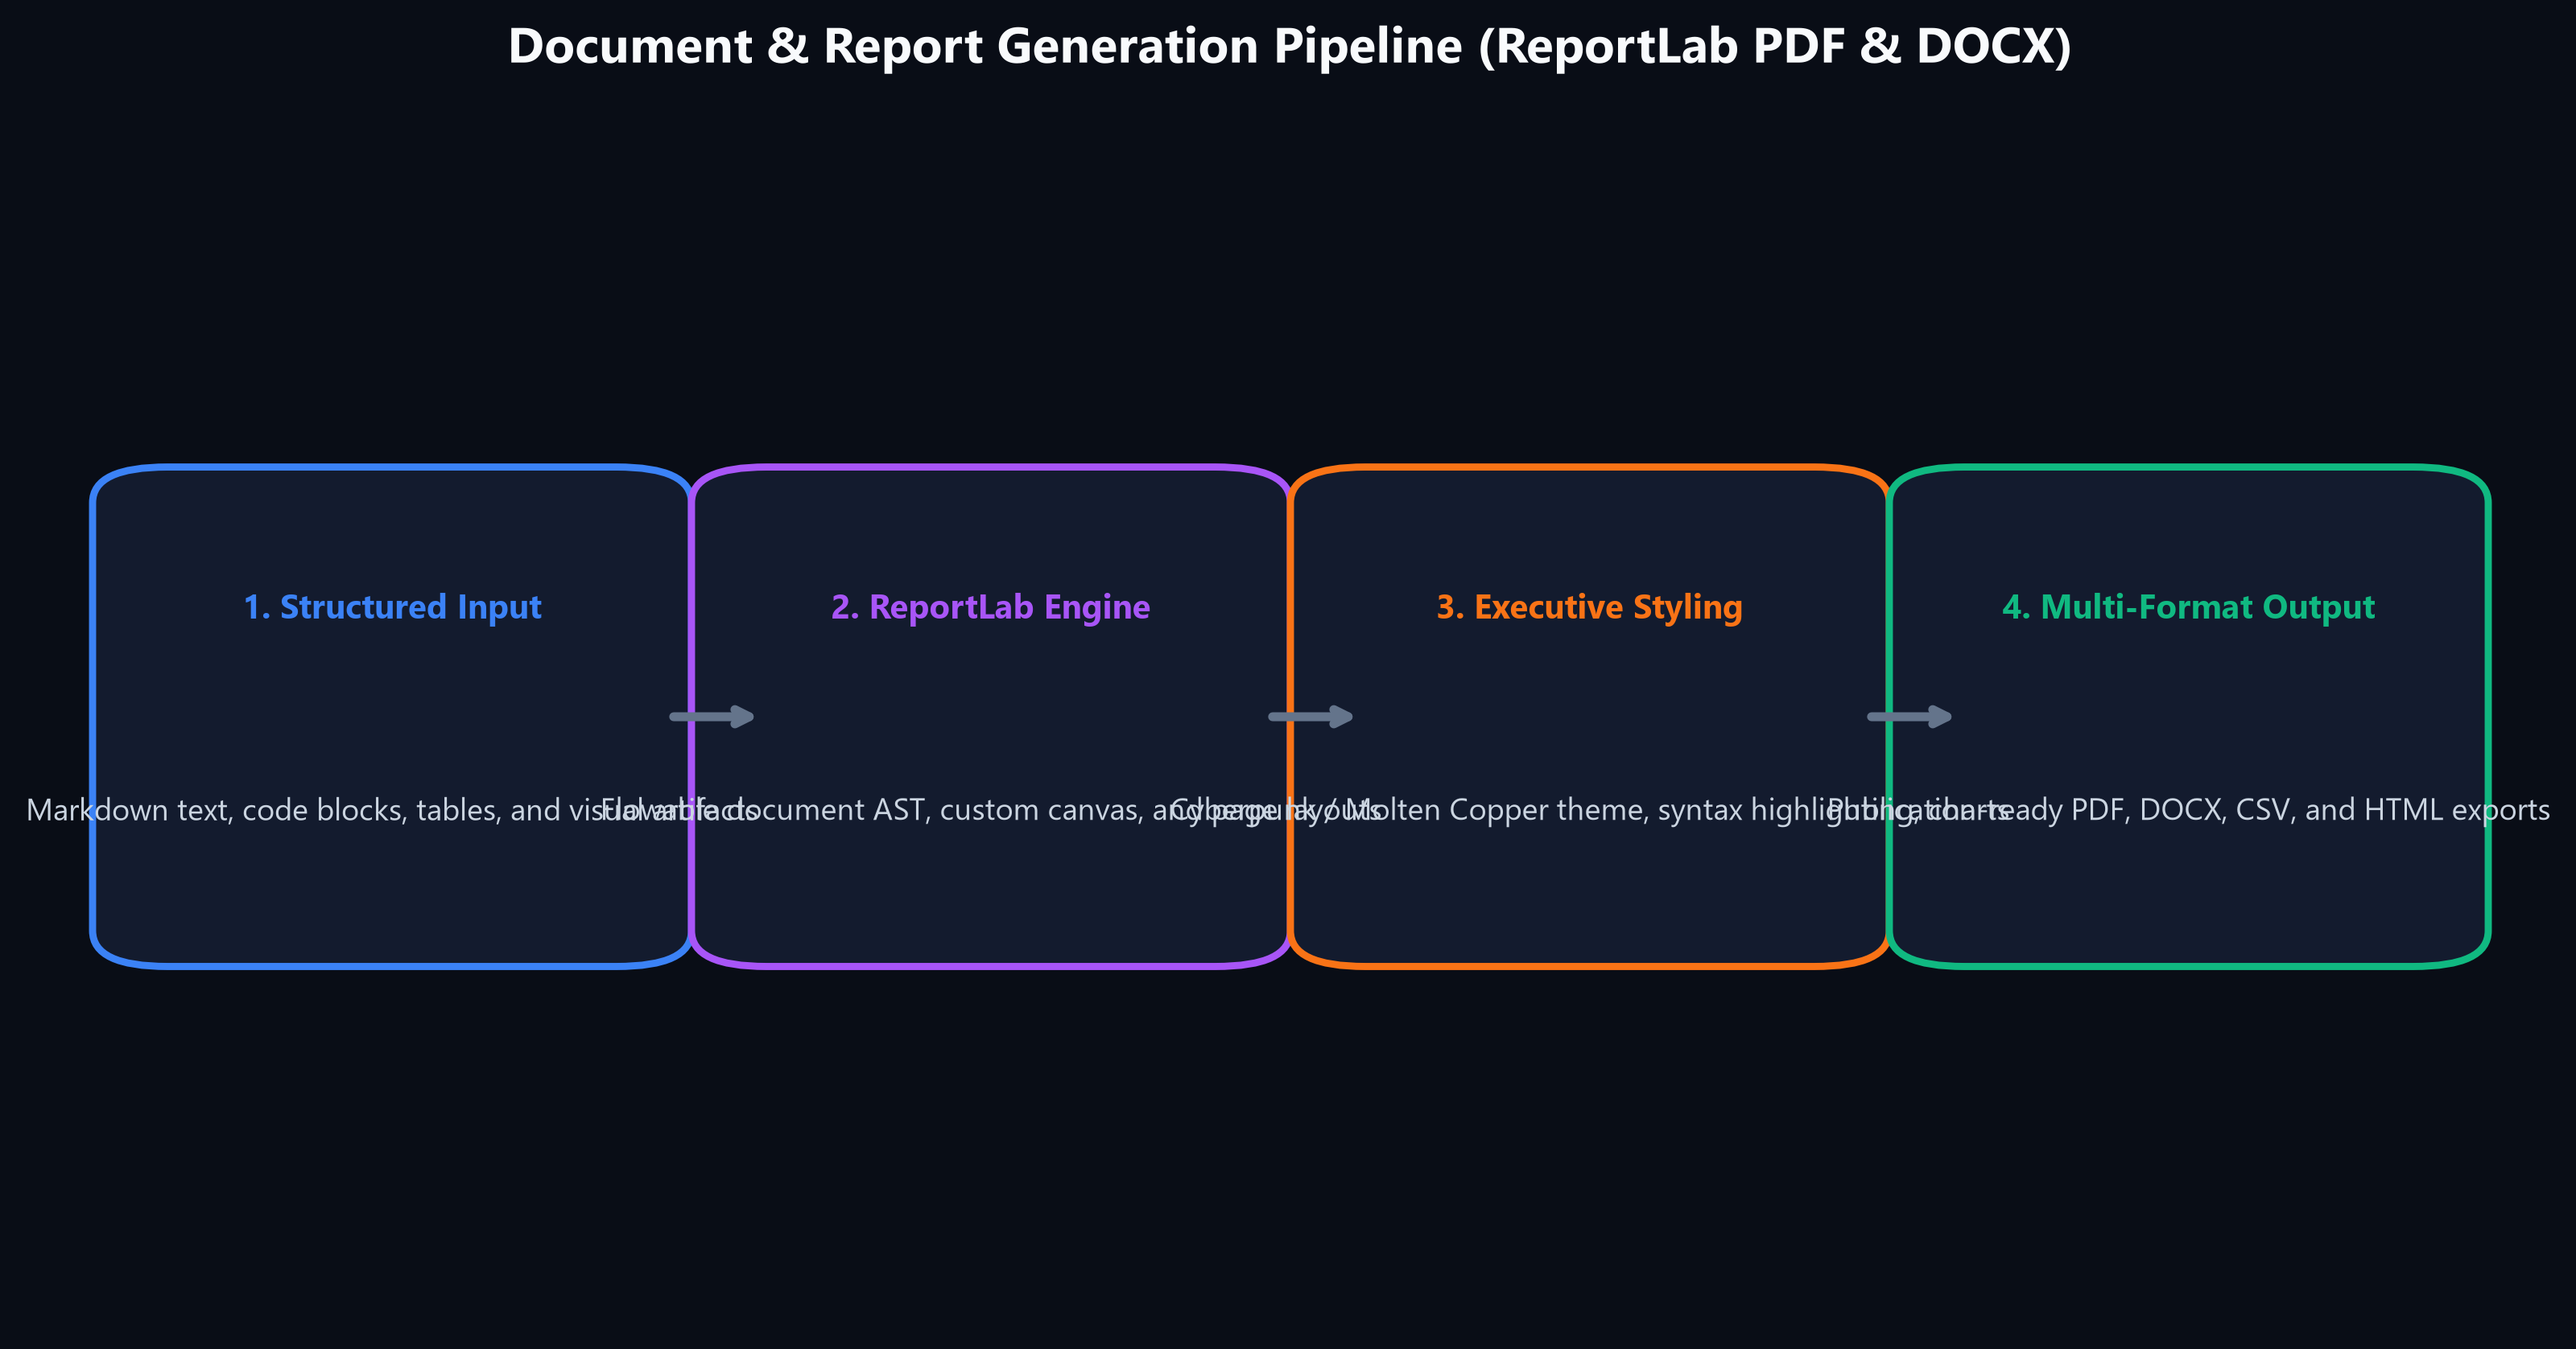
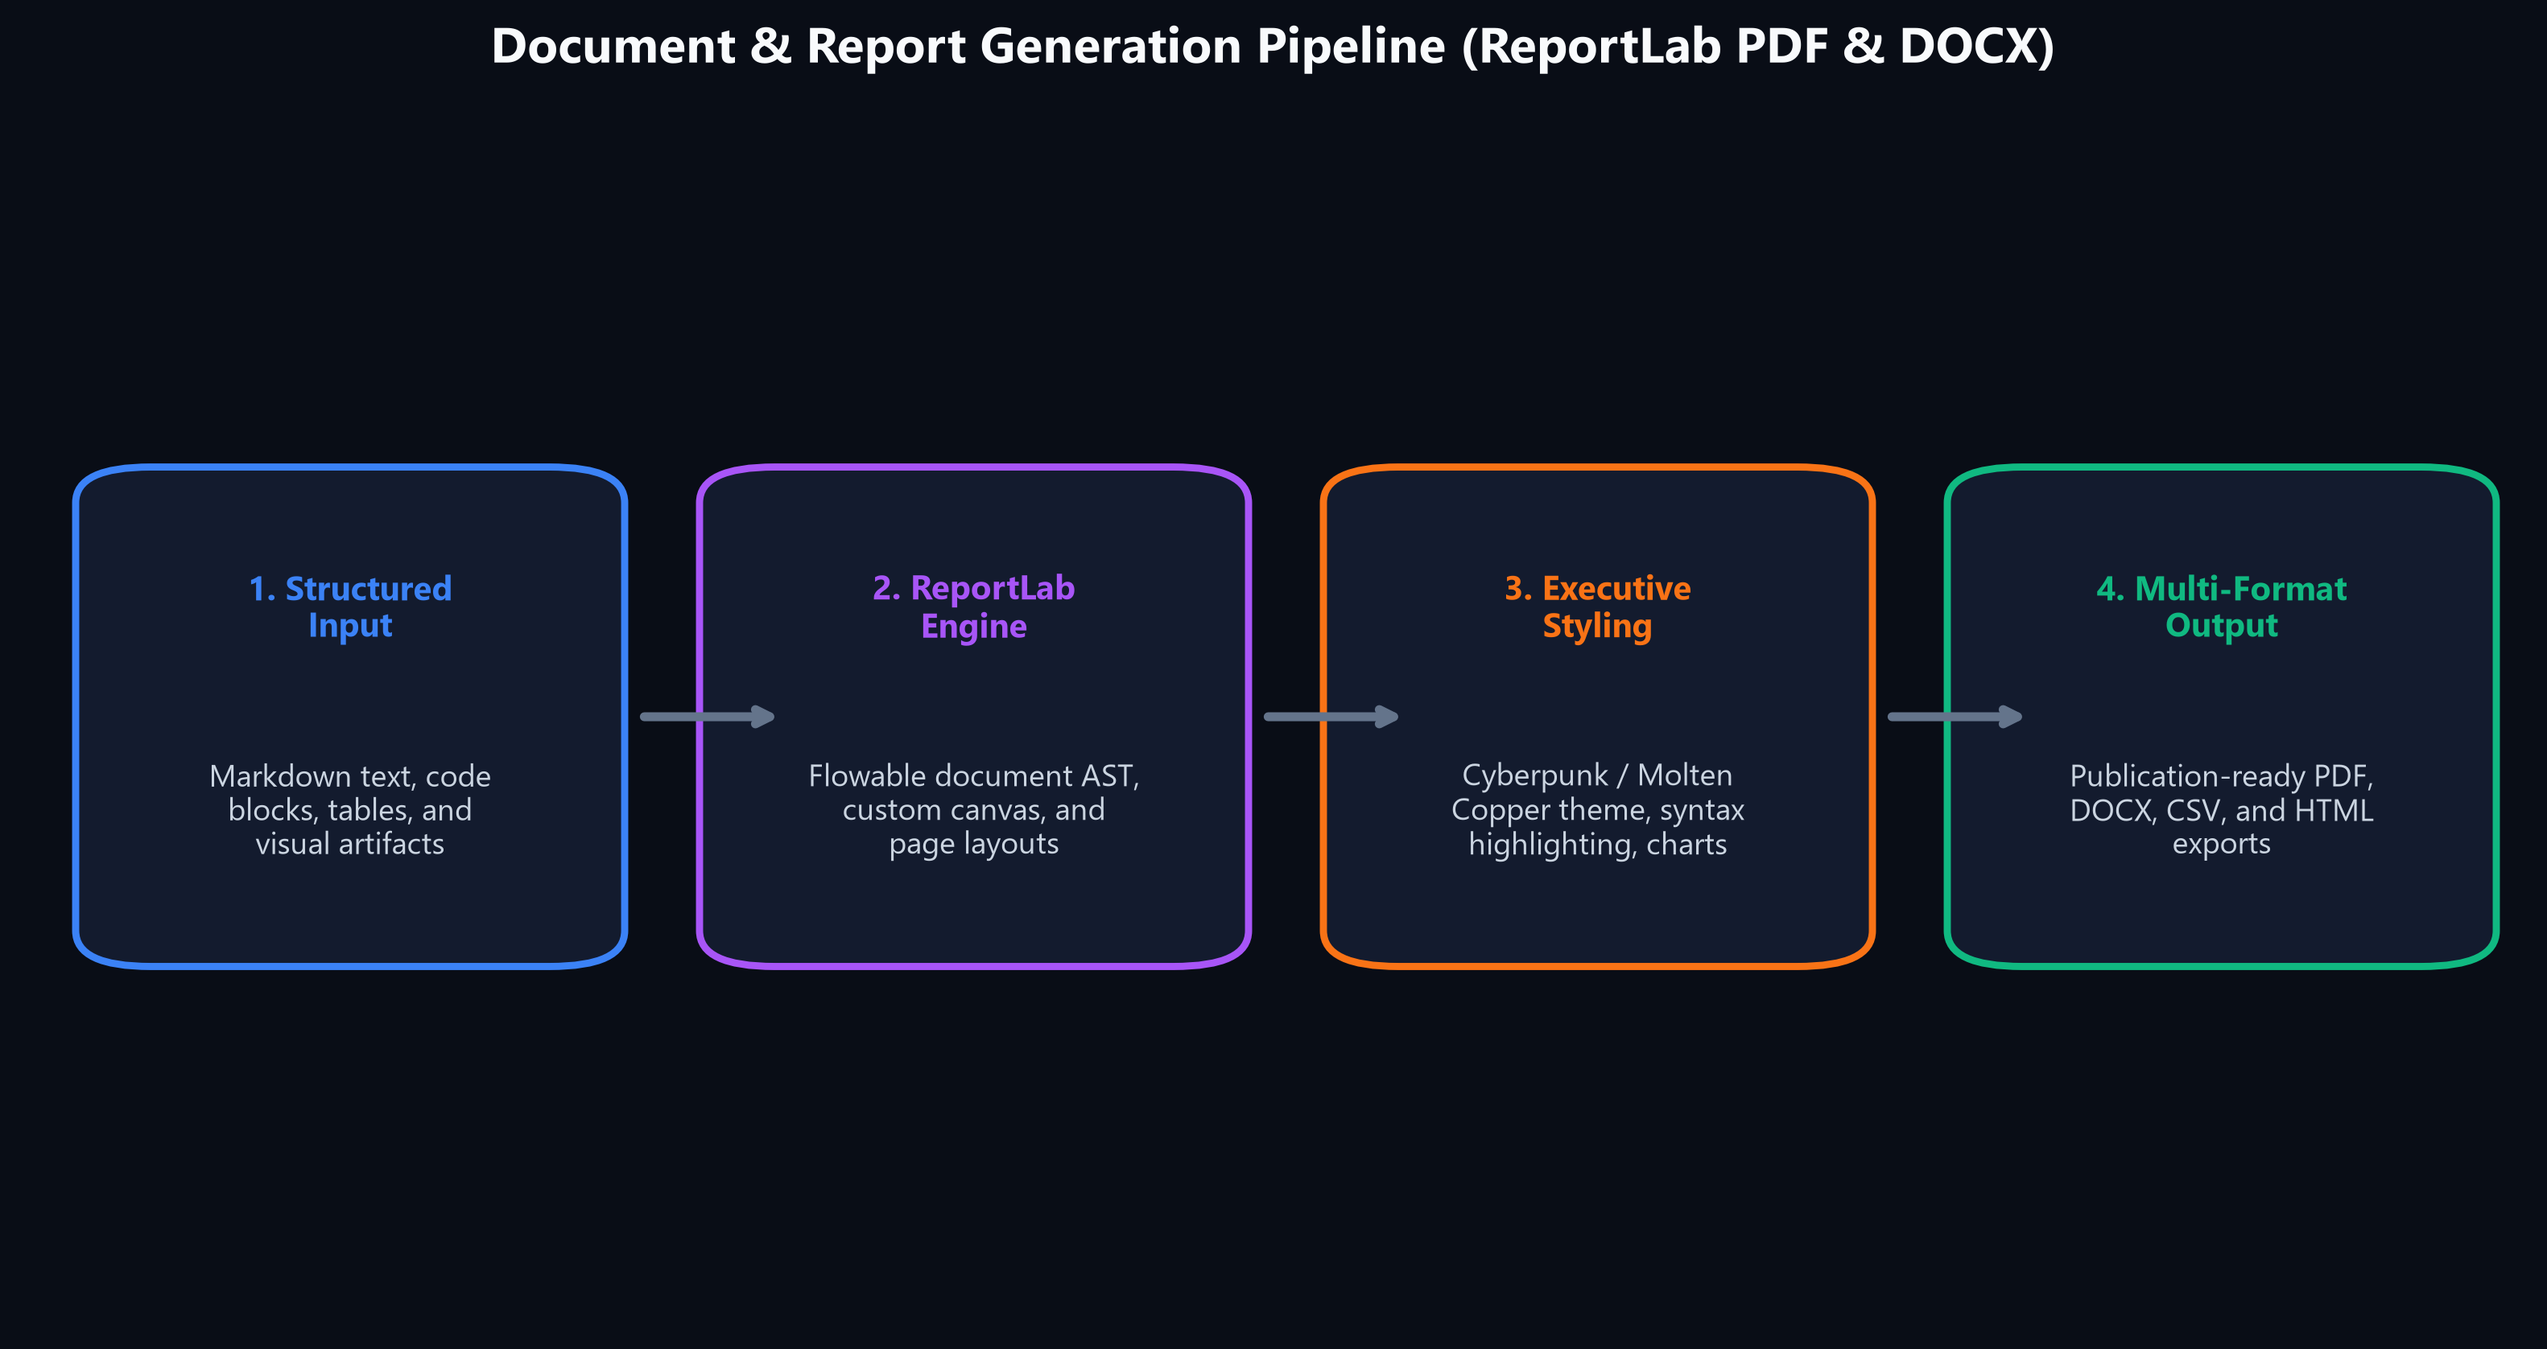
Adjust docs image layouts and regenerate images
Refactor scripts/generate_all_docs_images.py to improve diagram layout and text wrapping: add textwrap import, use textwrap.fill for titles/descriptions, reduce box widths, and tweak x offsets and arrow positions across firewall, audio, nexus_dag, self_healing and document pipeline generators. Regenerated the corresponding PNGs in docs/images to apply the visual fixes and fix text overflow/spacing.

diff --git a/scripts/generate_all_docs_images.py b/scripts/generate_all_docs_images.py
@@ -5,6 +5,7 @@ Theme: Cyberpunk / Molten Copper Dark Mode (#090d16 background,
 """
 
 from pathlib import Path
+import textwrap
 
 import matplotlib.pyplot as plt
 import numpy as np
@@ -520,10 +521,10 @@ def make_firewall_diagram():
     ax.axis("off")
 
     steps = [
-        ("1. INBOUND PROMPT", "Raw user input or tool telemetry", "#3b82f6", 0.05),
+        ("1. INBOUND PROMPT", "Raw user input or tool telemetry", "#3b82f6", 0.04),
         ("2. REGEX REDACTION", "Masks API keys, JWTs, SSNs, IPs", "#f97316", 0.29),
-        ("3. SEVERITY TIERING", "Public -> Internal -> Secret", "#a855f7", 0.53),
-        ("4. SAFE LOCAL INFERENCE", "Zero cloud egress, 100% offline", "#10b981", 0.77),
+        ("3. SEVERITY TIERING", "Public -> Internal -> Secret", "#a855f7", 0.54),
+        ("4. SAFE LOCAL INFERENCE", "Zero cloud egress, 100% offline", "#10b981", 0.79),
     ]
 
     for title, desc, col, x in steps:
@@ -540,7 +541,7 @@ def make_firewall_diagram():
         ax.text(
             x + 0.09,
             0.60,
-            title,
+            textwrap.fill(title, width=16),
             fontsize=9.5,
             fontweight="bold",
             color=col,
@@ -550,19 +551,18 @@ def make_firewall_diagram():
         ax.text(
             x + 0.09,
             0.44,
-            desc,
+            textwrap.fill(desc, width=22),
             fontsize=8.5,
             color="#cbd5e1",
             ha="center",
             va="center",
-            wrap=True,
-        )
+            )
 
         if x < 0.7:
             ax.annotate(
                 "",
-                xy=(x + 0.23, 0.52),
-                xytext=(x + 0.19, 0.52),
+                xy=(x + 0.265, 0.525),
+                xytext=(x + 0.205, 0.525),
                 arrowprops={"arrowstyle": "->", "color": "#64748b", "lw": 2.5},
             )
 
@@ -640,10 +640,10 @@ def make_audio_pipeline_diagram():
     ax.axis("off")
 
     components = [
-        ("1. Microphone Input", "PCM Audio (16kHz WAV)", "#3b82f6", 0.06),
+        ("1. Microphone Input", "PCM Audio (16kHz WAV)", "#3b82f6", 0.04),
         ("2. Whisper STT", "ggml-base.en (Offline)", "#06b6d4", 0.29),
-        ("3. Agent Orchestrator", "Llama-3.1 / Qwen2.5", "#f97316", 0.52),
-        ("4. Piper TTS", "ONNX Neural Voices", "#10b981", 0.75),
+        ("3. Agent Orchestrator", "Llama-3.1 / Qwen2.5", "#f97316", 0.54),
+        ("4. Piper TTS", "ONNX Neural Voices", "#10b981", 0.79),
     ]
 
     for title, desc, col, x in components:
@@ -660,7 +660,7 @@ def make_audio_pipeline_diagram():
         ax.text(
             x + 0.09,
             0.60,
-            title,
+            textwrap.fill(title, width=16),
             fontsize=9.5,
             fontweight="bold",
             color=col,
@@ -670,7 +670,7 @@ def make_audio_pipeline_diagram():
         ax.text(
             x + 0.09,
             0.44,
-            desc,
+            textwrap.fill(desc, width=22),
             fontsize=8.5,
             color="#cbd5e1",
             ha="center",
@@ -680,8 +680,8 @@ def make_audio_pipeline_diagram():
         if x < 0.7:
             ax.annotate(
                 "",
-                xy=(x + 0.23, 0.52),
-                xytext=(x + 0.19, 0.52),
+                xy=(x + 0.265, 0.525),
+                xytext=(x + 0.205, 0.525),
                 arrowprops={"arrowstyle": "->", "color": "#64748b", "lw": 2.5},
             )
 
@@ -702,15 +702,15 @@ def make_nexus_dag_diagram():
 
     stages = [
         ("1. Goal Decomposition", "NexusPlanner & DeepSeek-R1 splits goal into DAG SubTasks", "#f97316", 0.04),
-        ("2. Dependency Engine", "TaskGraph resolves topological layers & cycle locks", "#06b6d4", 0.28),
-        ("3. Parallel Execution", "Specialists (AXIS, OMNI, KINESIS) run concurrently", "#a855f7", 0.52),
-        ("4. ContextBus Synthesis", "Inter-agent messages stream into final polished output", "#10b981", 0.76),
+        ("2. Dependency Engine", "TaskGraph resolves topological layers & cycle locks", "#06b6d4", 0.29),
+        ("3. Parallel Execution", "Specialists (AXIS, OMNI, KINESIS) run concurrently", "#a855f7", 0.54),
+        ("4. ContextBus Synthesis", "Inter-agent messages stream into final polished output", "#10b981", 0.79),
     ]
 
     for title, desc, col, x in stages:
         box = patches.FancyBboxPatch(
             (x, 0.32),
-            0.20,
+            0.18,
             0.38,
             boxstyle="round,pad=0.02,rounding_size=0.03",
             facecolor="#131b2e",
@@ -719,9 +719,9 @@ def make_nexus_dag_diagram():
         )
         ax.add_patch(box)
         ax.text(
-            x + 0.10,
+            x + 0.09,
             0.60,
-            title,
+            textwrap.fill(title, width=16),
             fontsize=9.5,
             fontweight="bold",
             color=col,
@@ -729,21 +729,20 @@ def make_nexus_dag_diagram():
             va="center",
         )
         ax.text(
-            x + 0.10,
+            x + 0.09,
             0.43,
-            desc,
+            textwrap.fill(desc, width=22),
             fontsize=8.5,
             color="#cbd5e1",
             ha="center",
             va="center",
-            wrap=True,
         )
 
         if x < 0.7:
             ax.annotate(
                 "",
-                xy=(x + 0.25, 0.51),
-                xytext=(x + 0.21, 0.51),
+                xy=(x + 0.265, 0.51),
+                xytext=(x + 0.205, 0.51),
                 arrowprops={"arrowstyle": "->", "color": "#64748b", "lw": 2.5},
             )
 
@@ -764,15 +763,15 @@ def make_self_healing_diagram():
 
     stages = [
         ("1. Anomaly Sentinel", "Real-time process, memory leak, and VRAM watchdog", "#3b82f6", 0.04),
-        ("2. Health Diagnostics", "Identifies GPU OOM, worker deadlocks, or crashed subagents", "#f97316", 0.28),
-        ("3. Automated Recovery", "Reaps zombies, prunes KV cache, and resets Ollama pipes", "#06b6d4", 0.52),
-        ("4. Dynamic Fallback", "Graceful model tier switching with zero user disruption", "#10b981", 0.76),
+        ("2. Health Diagnostics", "Identifies GPU OOM, worker deadlocks, or crashed subagents", "#f97316", 0.29),
+        ("3. Automated Recovery", "Reaps zombies, prunes KV cache, and resets Ollama pipes", "#06b6d4", 0.54),
+        ("4. Dynamic Fallback", "Graceful model tier switching with zero user disruption", "#10b981", 0.79),
     ]
 
     for title, desc, col, x in stages:
         box = patches.FancyBboxPatch(
             (x, 0.32),
-            0.20,
+            0.18,
             0.38,
             boxstyle="round,pad=0.02,rounding_size=0.03",
             facecolor="#131b2e",
@@ -781,9 +780,9 @@ def make_self_healing_diagram():
         )
         ax.add_patch(box)
         ax.text(
-            x + 0.10,
+            x + 0.09,
             0.60,
-            title,
+            textwrap.fill(title, width=16),
             fontsize=9.5,
             fontweight="bold",
             color=col,
@@ -791,21 +790,20 @@ def make_self_healing_diagram():
             va="center",
         )
         ax.text(
-            x + 0.10,
+            x + 0.09,
             0.43,
-            desc,
+            textwrap.fill(desc, width=22),
             fontsize=8.5,
             color="#cbd5e1",
             ha="center",
             va="center",
-            wrap=True,
         )
 
         if x < 0.7:
             ax.annotate(
                 "",
-                xy=(x + 0.25, 0.51),
-                xytext=(x + 0.21, 0.51),
+                xy=(x + 0.265, 0.51),
+                xytext=(x + 0.205, 0.51),
                 arrowprops={"arrowstyle": "->", "color": "#64748b", "lw": 2.5},
             )
 
@@ -826,15 +824,15 @@ def make_document_pipeline_diagram():
 
     stages = [
         ("1. Structured Input", "Markdown text, code blocks, tables, and visual artifacts", "#3b82f6", 0.04),
-        ("2. ReportLab Engine", "Flowable document AST, custom canvas, and page layouts", "#a855f7", 0.28),
-        ("3. Executive Styling", "Cyberpunk / Molten Copper theme, syntax highlighting, charts", "#f97316", 0.52),
-        ("4. Multi-Format Output", "Publication-ready PDF, DOCX, CSV, and HTML exports", "#10b981", 0.76),
+        ("2. ReportLab Engine", "Flowable document AST, custom canvas, and page layouts", "#a855f7", 0.29),
+        ("3. Executive Styling", "Cyberpunk / Molten Copper theme, syntax highlighting, charts", "#f97316", 0.54),
+        ("4. Multi-Format Output", "Publication-ready PDF, DOCX, CSV, and HTML exports", "#10b981", 0.79),
     ]
 
     for title, desc, col, x in stages:
         box = patches.FancyBboxPatch(
             (x, 0.32),
-            0.20,
+            0.18,
             0.38,
             boxstyle="round,pad=0.02,rounding_size=0.03",
             facecolor="#131b2e",
@@ -843,9 +841,9 @@ def make_document_pipeline_diagram():
         )
         ax.add_patch(box)
         ax.text(
-            x + 0.10,
+            x + 0.09,
             0.60,
-            title,
+            textwrap.fill(title, width=16),
             fontsize=9.5,
             fontweight="bold",
             color=col,
@@ -853,21 +851,20 @@ def make_document_pipeline_diagram():
             va="center",
         )
         ax.text(
-            x + 0.10,
+            x + 0.09,
             0.43,
-            desc,
+            textwrap.fill(desc, width=22),
             fontsize=8.5,
             color="#cbd5e1",
             ha="center",
             va="center",
-            wrap=True,
         )
 
         if x < 0.7:
             ax.annotate(
                 "",
-                xy=(x + 0.25, 0.51),
-                xytext=(x + 0.21, 0.51),
+                xy=(x + 0.265, 0.51),
+                xytext=(x + 0.205, 0.51),
                 arrowprops={"arrowstyle": "->", "color": "#64748b", "lw": 2.5},
             )
 
